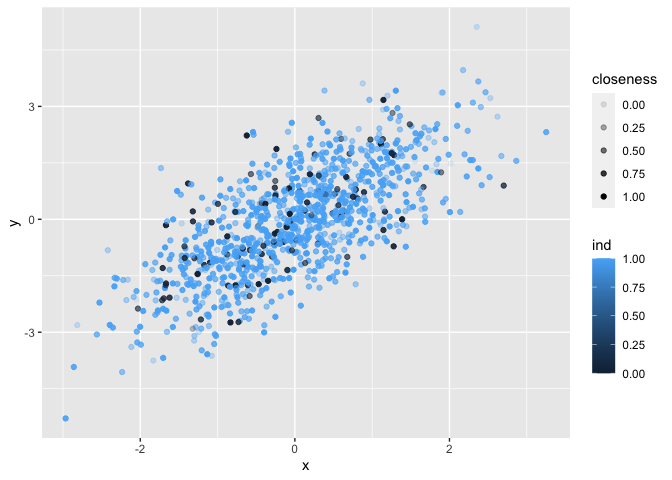
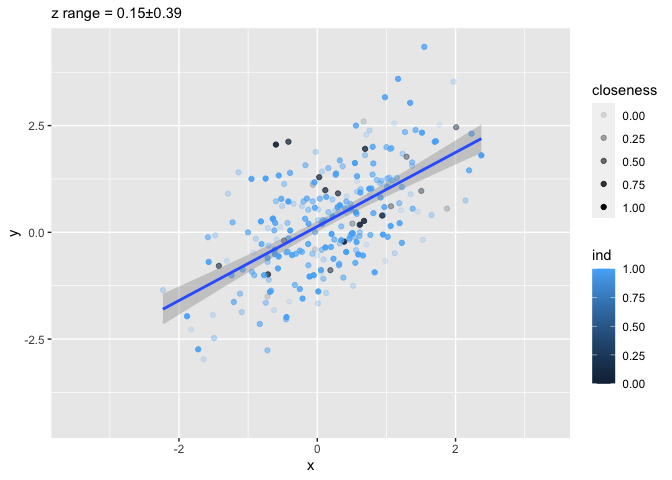
slice w lm

diff --git a/README.md b/README.md
@@ -64,36 +64,78 @@ counter <- 1
 ```
 
 ``` r
-ggslice <- function(data, z, 
+slice_z <- function(data, z, 
+                    z_q_range = .5, # middle of the range
                     z_value = NULL, 
-                    tolerance = 1, 
-                    tol_value = 3){
+                    tolerance = .05, # plus or minus 5% of range
+                    tol_value = NULL){
   
-z_complete <- data %>% pull({{z}})  
+z_vector <- data |> pull({{z}})  
+z_range <- range(z_vector, na.rm = T)
+z_name <- data  |>  select({{z}}) |> names()
   
-if(is.null(z_value)){
-  
-    z_value <- range(z_complete, na.rm = T) %>% quantile(.5)
-    
-}
-  
-if(is.null(tol_value)){
-  
-  tol_value <- (z_complete[2]-z_complete[1])*tolerance
-  
-}
-  
+if(is.null(z_value)){     z_value <-  quantile(z_range, z_q_range)}
+if(is.null(tol_value)){ tol_value <- (z_range[2]-z_range[1])*tolerance}
+
+z_min <- z_value - tol_value
+z_max <- z_value + tol_value
   
 data %>% 
-  filter({{z}} < z_value + tol_value & {{z}} > z_value - tol_value) %>%
-  mutate(closeness = (tol_value - abs(z_value - {{z}}))/tol_value) %>%
-  ggplot() + 
-  geom_blank(data = data) + 
+  dplyr::filter({{z}} <= z_max & {{z}} >= z_min) |> 
+  dplyr::mutate(closeness = (tol_value - abs(z_value - {{z}}))/tol_value) 
+
+}
+
+
+#' Title
+#'
+#' @param data 
+#' @param z 
+#' @param z_q_range 
+#' @param z_value 
+#' @param tolerance 
+#' @param tol_value 
+#'
+#' @return
+#' @export
+#'
+#' @examples
+ggslice <- function(data, z, 
+                    z_q_range = .5, # middle of the range
+                    z_value = NULL, 
+                    tolerance = .05, # plus or minus 5% of range
+                    tol_value = NULL){
+  
+z_vector <- data |> pull({{z}})  
+z_range <- range(z_vector, na.rm = T)
+z_name <- data  |>  select({{z}}) |> names()
+  
+if(is.null(z_value)){z_value <- z_range |> quantile(z_q_range)}
+if(is.null(tol_value)){tol_value <- (z_range[2]-z_range[1])*tolerance}
+
+z_min <- z_value - tol_value
+z_max <- z_value + tol_value
+  
+data %>% 
+  dplyr::filter({{z}} <= z_max & {{z}} >= z_min) |> 
+  dplyr::mutate(closeness = (tol_value - abs(z_value - {{z}}))/tol_value)  ->
+sliced
+  
+sliced |>
+  ggplot2::ggplot() + 
+  ggplot2::geom_blank(data = data) + 
+  ggplot2::labs(subtitle = paste0(z_name, " range = ", 
+                                  round(z_value, 2),"\u00B1",  
+                                  round(tol_value,2))) +
   # scale_color_viridis_c(limits = range(z_complete, na.rm = T)) + 
   NULL
   
 }
+```
 
+# Test it out
+
+``` r
 ggslice(mtcars, z = drat) + 
   aes(x = wt, y = qsec) + 
   geom_point(aes(alpha = closeness, color = drat)) +
@@ -105,31 +147,65 @@ ggslice(mtcars, z = drat) +
 <img src="man/figures/README-unnamed-chunk-3-1.png" width="100%" />
 
 ``` r
+
+ggslice(mtcars, z = drat, z_q_range = .6) + 
+  aes(x = wt, y = qsec) + 
+  geom_point(aes(alpha = closeness, color = drat)) +
+  # labs(title = paste0("z = ", z,"; tolerance = ",  tolerance)) +
+  scale_alpha(limits = c(0, 1)) +
+  geom_blank(data = mtcars) 
+```
+
+<img src="man/figures/README-unnamed-chunk-3-2.png" width="100%" />
+
+``` r
 library(tidyverse)
 df <- tibble(x = rnorm(1000)) |>
   mutate(y = x + rnorm(1000) , z = .2*x + .3*y + rnorm(1000), 
                  ind = sample(0:1, 1000, replace = T, prob = c(.1, .9)))
 
-
-
 ggslice(df, z = z) + 
   aes(x = x, y = y) + 
   geom_point(aes(alpha = closeness, color = ind)) +
-  # labs(title = paste0("z = ", z,"; tolerance = ",  tolerance)) +
-  scale_alpha(limits = c(0, 1))
+  scale_alpha(limits = c(0, 1)) + 
+  geom_smooth(method = lm)
+#> `geom_smooth()` using formula = 'y ~ x'
+
+
+ggslice(df, z = z, z_q_range = .6) + 
+  aes(x = x, y = y) + 
+  geom_point(aes(alpha = closeness, 
+                 color = ind)) +
+  scale_alpha(limits = c(0, 1)) + 
+  geom_smooth(method = lm)
+#> `geom_smooth()` using formula = 'y ~ x'
+
+ggslice(df, z = z, z_q_range = .7) + 
+  aes(x = x, y = y) + 
+  geom_point(aes(alpha = closeness, color = ind)) +
+  scale_alpha(limits = c(0, 1)) + 
+  geom_smooth(method = lm)
+#> `geom_smooth()` using formula = 'y ~ x'
 ```
 
-<img src="man/figures/README-cars-1.png" width="100%" />
+<img src="man/figures/README-cars-1.png" width="33%" /><img src="man/figures/README-cars-2.png" width="33%" /><img src="man/figures/README-cars-3.png" width="33%" />
 
-You’ll still need to render `README.Rmd` regularly, to keep `README.md`
-up-to-date. `devtools::build_readme()` is handy for this. You could also
-use GitHub Actions to re-render `README.Rmd` every time you push. An
-example workflow can be found here:
-<https://github.com/r-lib/actions/tree/v1/examples>.
+``` r
+# last_plot_new_slice()
 
-You can also embed plots, for example:
+last_plot() %+% slice_z(df, z = z)
+#> `geom_smooth()` using formula = 'y ~ x'
+```
 
-<img src="man/figures/README-pressure-1.png" width="100%" />
+<img src="man/figures/README-unnamed-chunk-4-1.png" width="100%" />
 
-In that case, don’t forget to commit and push the resulting figure
-files, so they display on GitHub and CRAN.
+``` r
+readme2pkg::chunk_to_r("ggslice")
+```
+
+``` r
+devtools::check()
+usethis::use_package("ggplot2")
+usethis::use_package("dplyr")
+devtools::build()
+```
